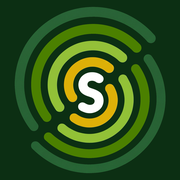
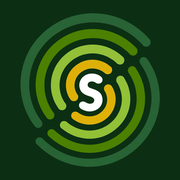
v1.28: アイコンの中心図形を緑の線一本分ほど縮小（クロップ92%→85%）
- 余白を少し増やし外側の緑円と縁の間に間隔。180/192/512/1024/hires再書出・?v=128

diff --git a/index.html b/index.html
@@ -5,13 +5,13 @@
 <meta name="viewport" content="width=device-width, initial-scale=1.0, viewport-fit=cover">
 <meta name="apple-mobile-web-app-capable" content="yes">
 <title>しそチャンNET</title>
-<link rel="apple-touch-icon" href="icon-180.png?v=127">
-<link rel="icon" type="image/png" sizes="192x192" href="icon-192.png?v=127">
+<link rel="apple-touch-icon" href="icon-180.png?v=128">
+<link rel="icon" type="image/png" sizes="192x192" href="icon-192.png?v=128">
 <meta name="apple-mobile-web-app-capable" content="yes">
 <meta name="apple-mobile-web-app-status-bar-style" content="black-translucent">
 <meta name="apple-mobile-web-app-title" content="しそチャンNET">
-<link rel="apple-touch-icon" href="icon-180.png?v=127">
-<link rel="icon" type="image/png" sizes="192x192" href="icon-192.png?v=127">
+<link rel="apple-touch-icon" href="icon-180.png?v=128">
+<link rel="icon" type="image/png" sizes="192x192" href="icon-192.png?v=128">
 <style>
 @import url('https://fonts.googleapis.com/css2?family=Noto+Sans+JP:wght@300;400;500;700&family=Zen+Kaku+Gothic+New:wght@300;400;500;700;900&display=swap');
 /* タイトル用フォント コーポレートロゴB（Corporate Logo Bold・OFLベース）。タイトル文字だけにサブセット済(約1KB) */
@@ -789,7 +789,7 @@ body.cursor-hidden,body.cursor-hidden *{cursor:none !important;}
 <div id="power-screen">
   <div style="display:flex;flex-direction:column;align-items:center;gap:0;">
     <div class="ps-logo-main">しそチャン<em>NET</em></div>
-    <div class="ps-version">version 1.27</div>
+    <div class="ps-version">version 1.28</div>
     <div class="ps-test-badge">試験放送中</div>
   </div>
   <div style="height:18px"></div>
